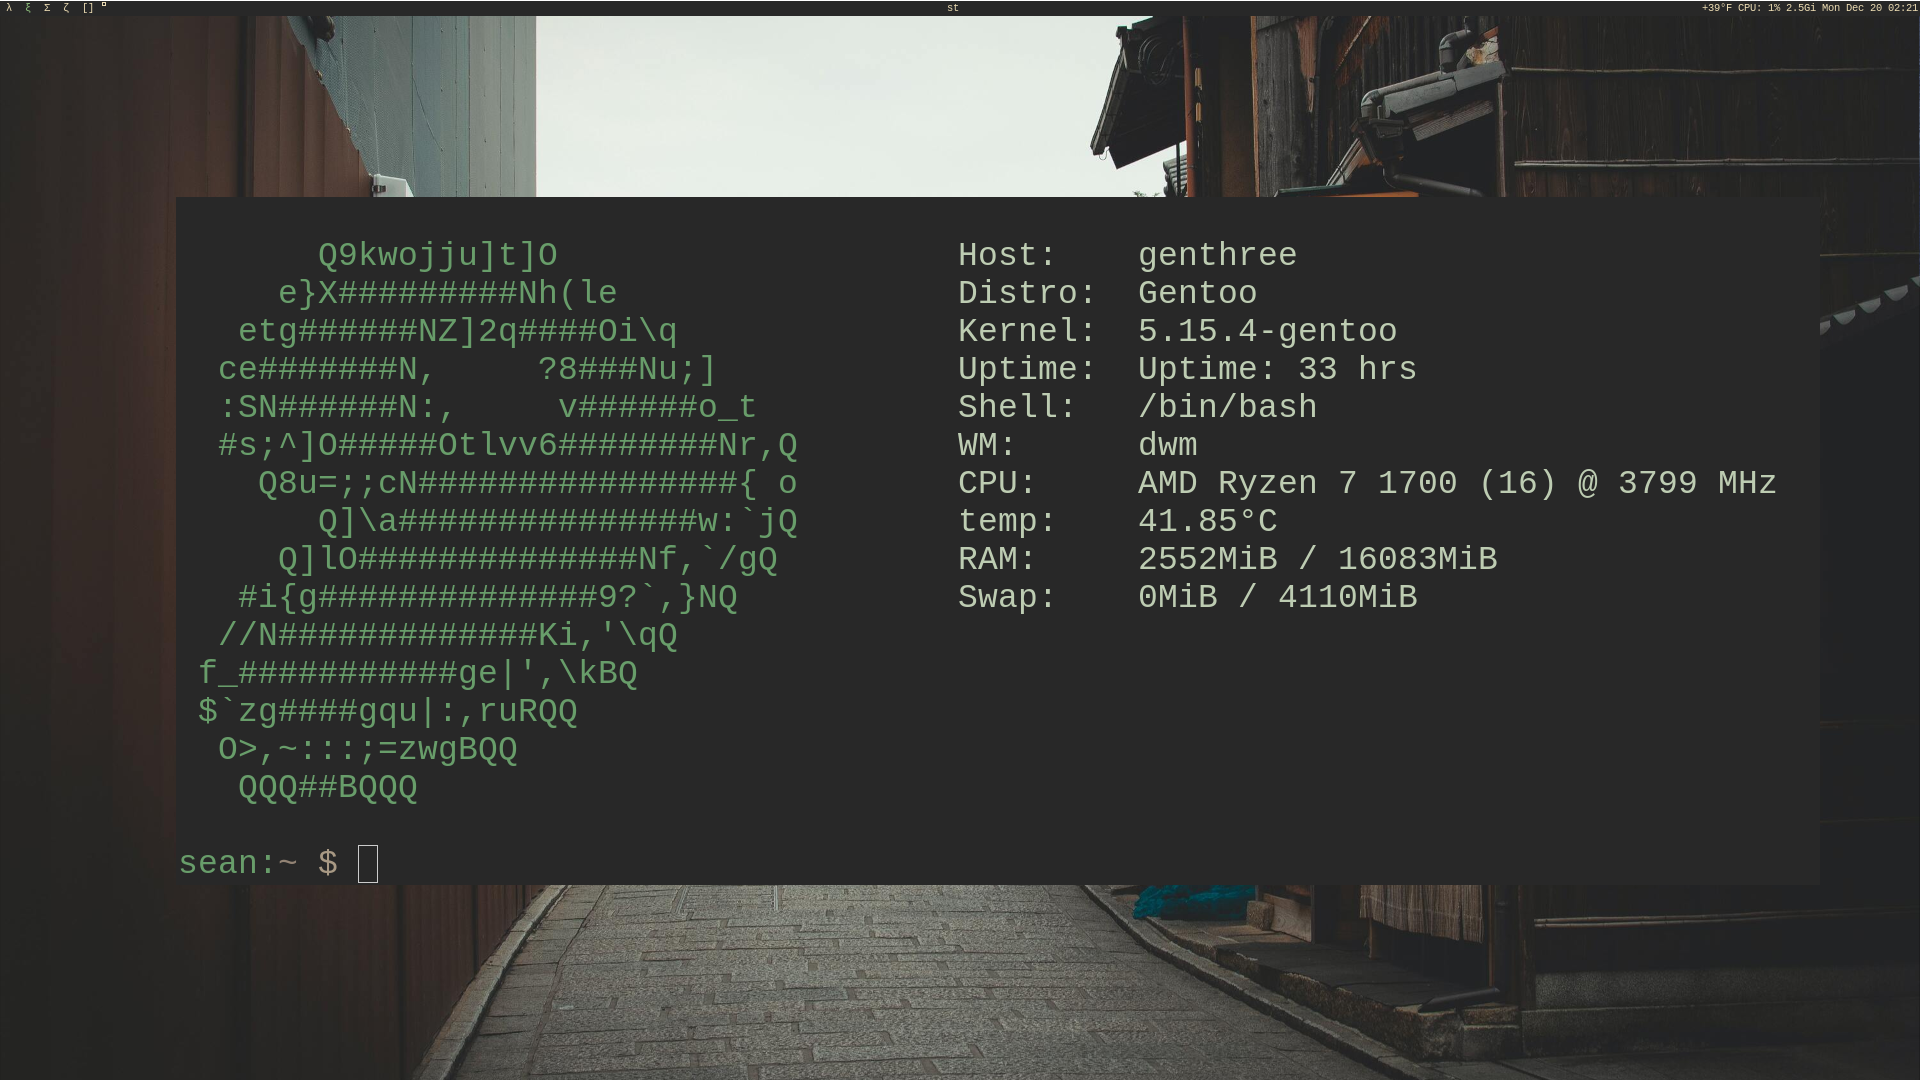
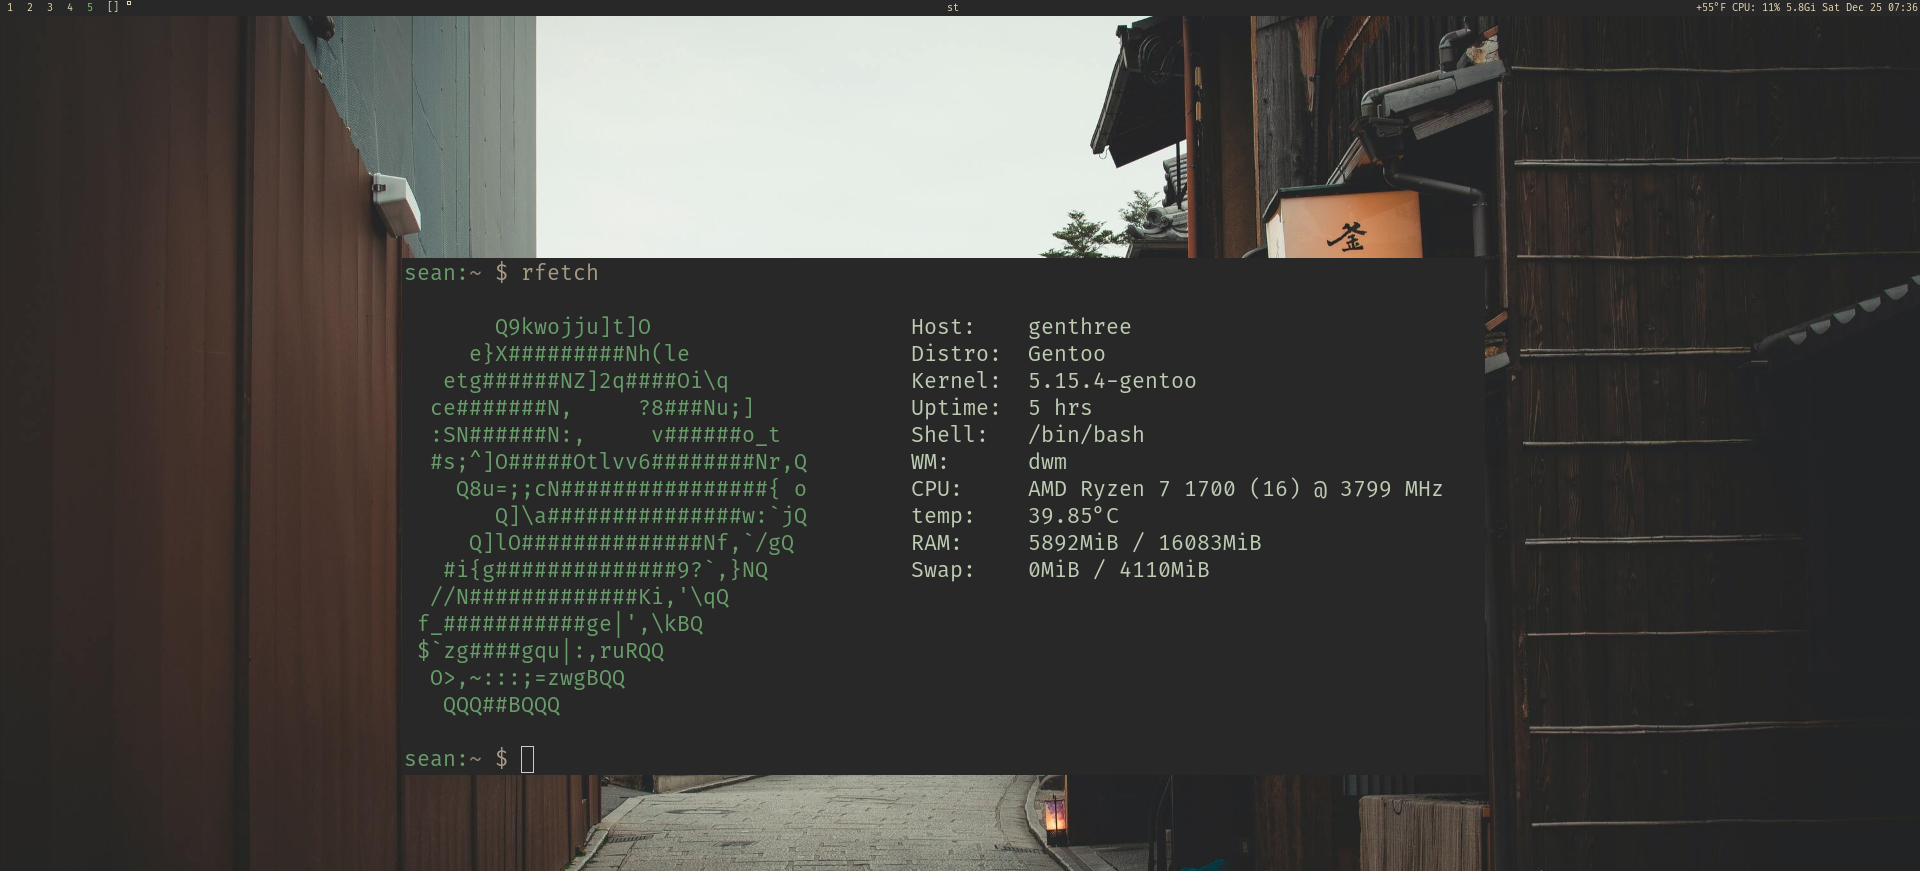
updated wm detection

diff --git a/src/main.rs b/src/main.rs
@@ -50,7 +50,7 @@ fn print_logo(sys: System, uptime: String, actual_wm: &str, cpu: String, swap: S
 {}      Q9kwojju]t]O                    {}Host:\t{}
 {}    e}}X#########Nh(le                 {}Distro:\t{}
 {}  etg######NZ]2q####Oi\\q              {}Kernel:\t{}
-{} ce#######N,     ?8###Nu;]            {}Uptime:\t{}
+{} ce#######N,     ?8###Nu;]            {}{}
 {} :SN######N:,     v######o_t          {}Shell:\t{}
 {} #s;^]O#####Otlvv6########Nr,Q        {}WM:\t{}
 {}   Q8u=;;cN################{{ o        {}CPU:\t{}
@@ -98,9 +98,18 @@ fn main() {
         uptime = format!("Uptime:\t{} hrs", sys.uptime() / 3600);
     }
 
-    // use epic magic with xprop to find the wm, might not work for everyone
+    // use xprop to find the wm
+    let win_command = Command::new("xprop")
+        .args(["-root", "-notype"])
+        .output()
+        .expect("could not find wm");
+
+    let win_command = str::from_utf8(&win_command.stdout).unwrap();
+
+    let win_id = &win_command[(win_command.find("_NET_SUPPORTING_WM_CHECK: window id #").unwrap() + 38)..(win_command.find("_XROOTPMAP_ID:").unwrap() - 1)];
+
     let wm = Command::new("xprop")
-        .args(["-id", "0x40001c"])
+        .args(["-id", &win_id])
         .output()
         .expect("could not find wm");
 
